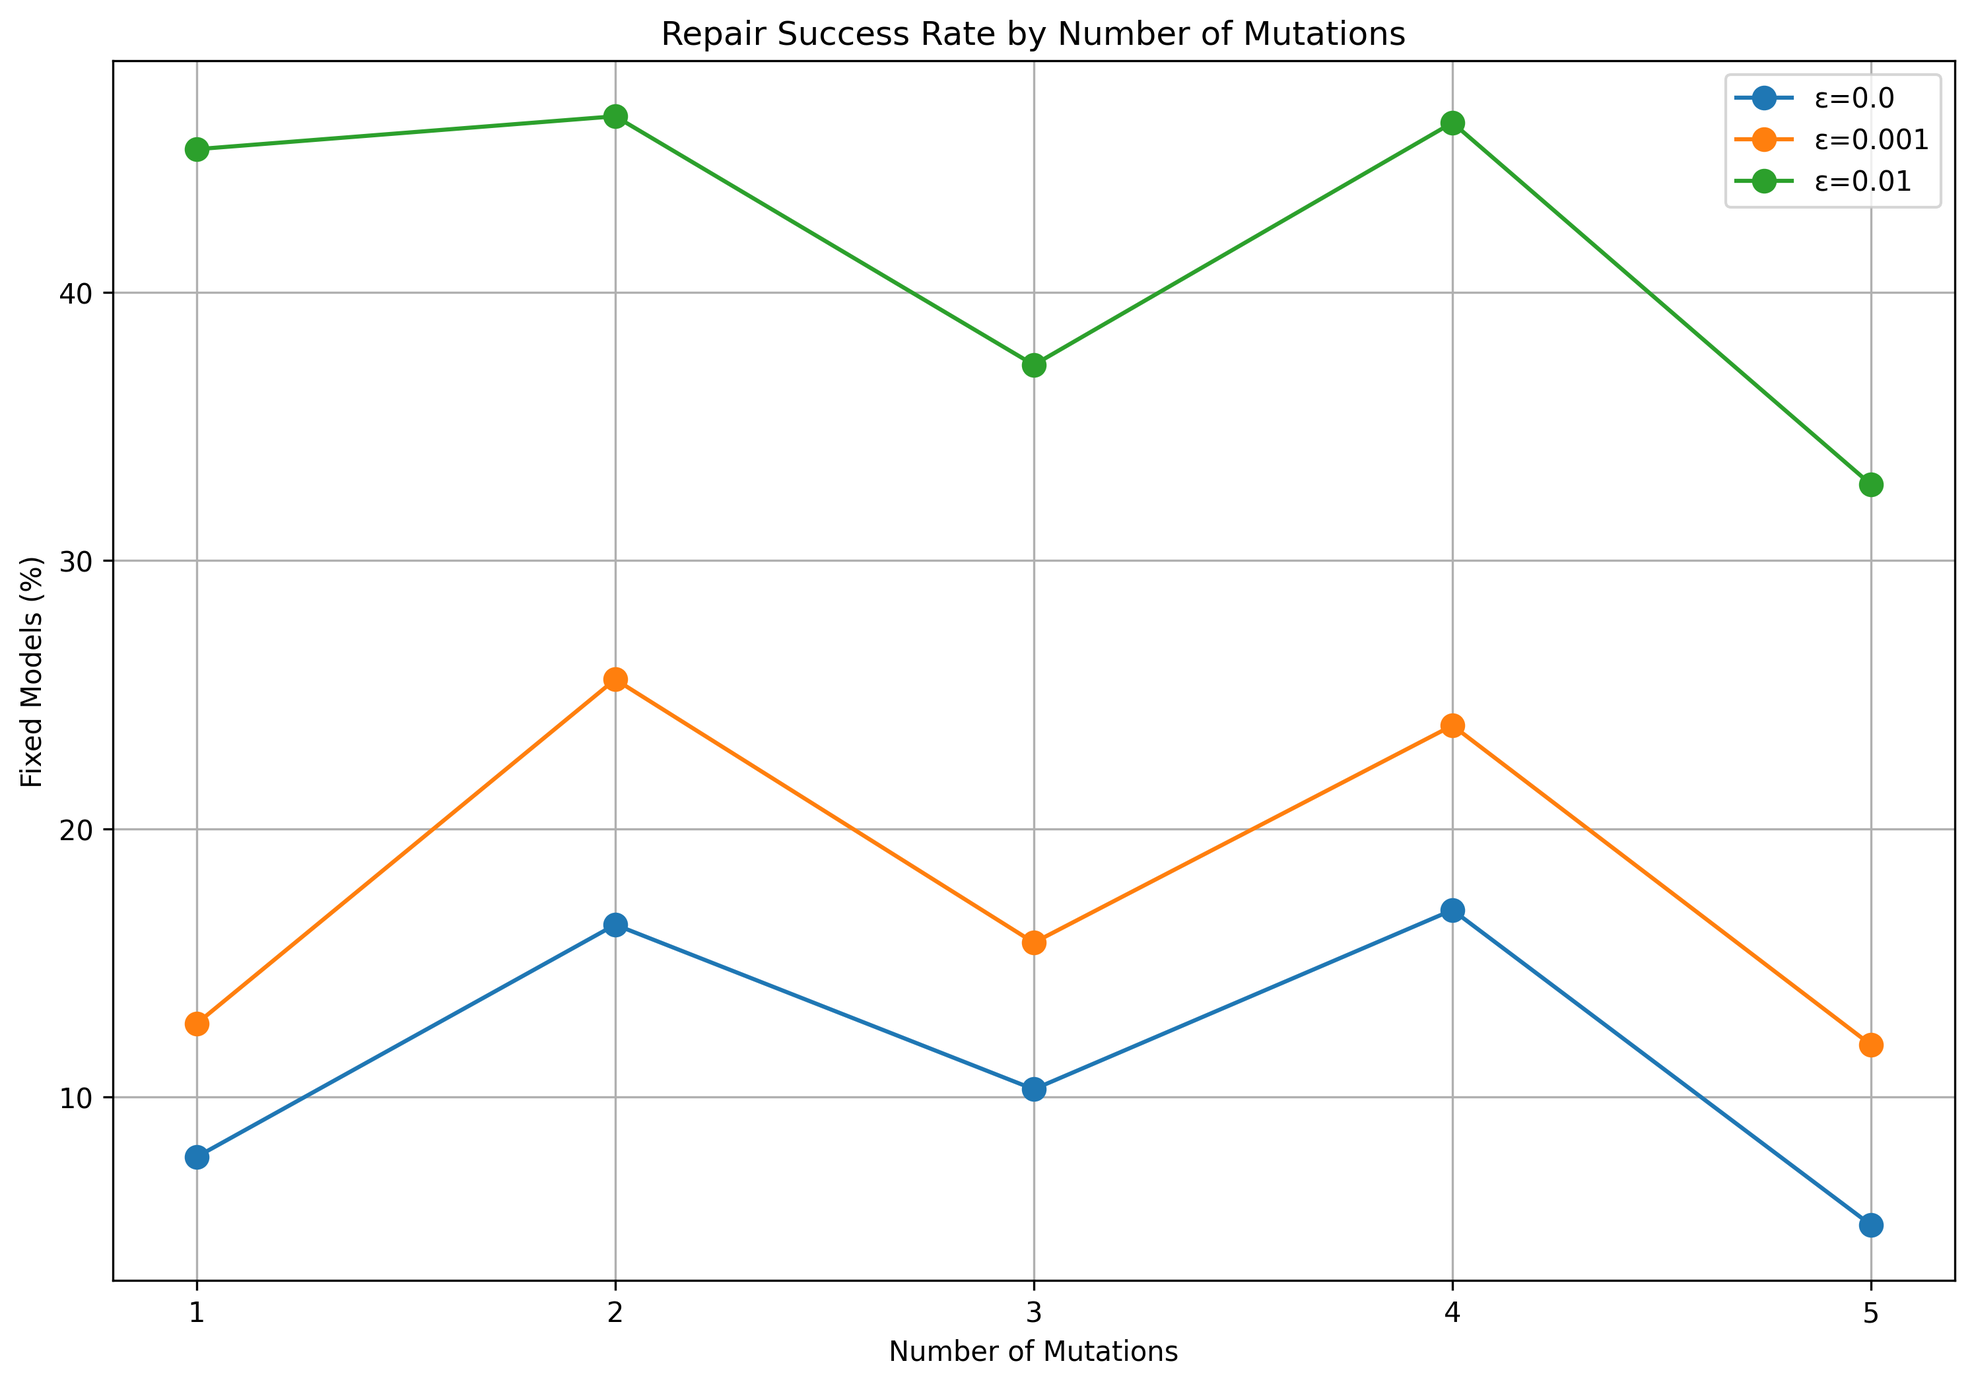
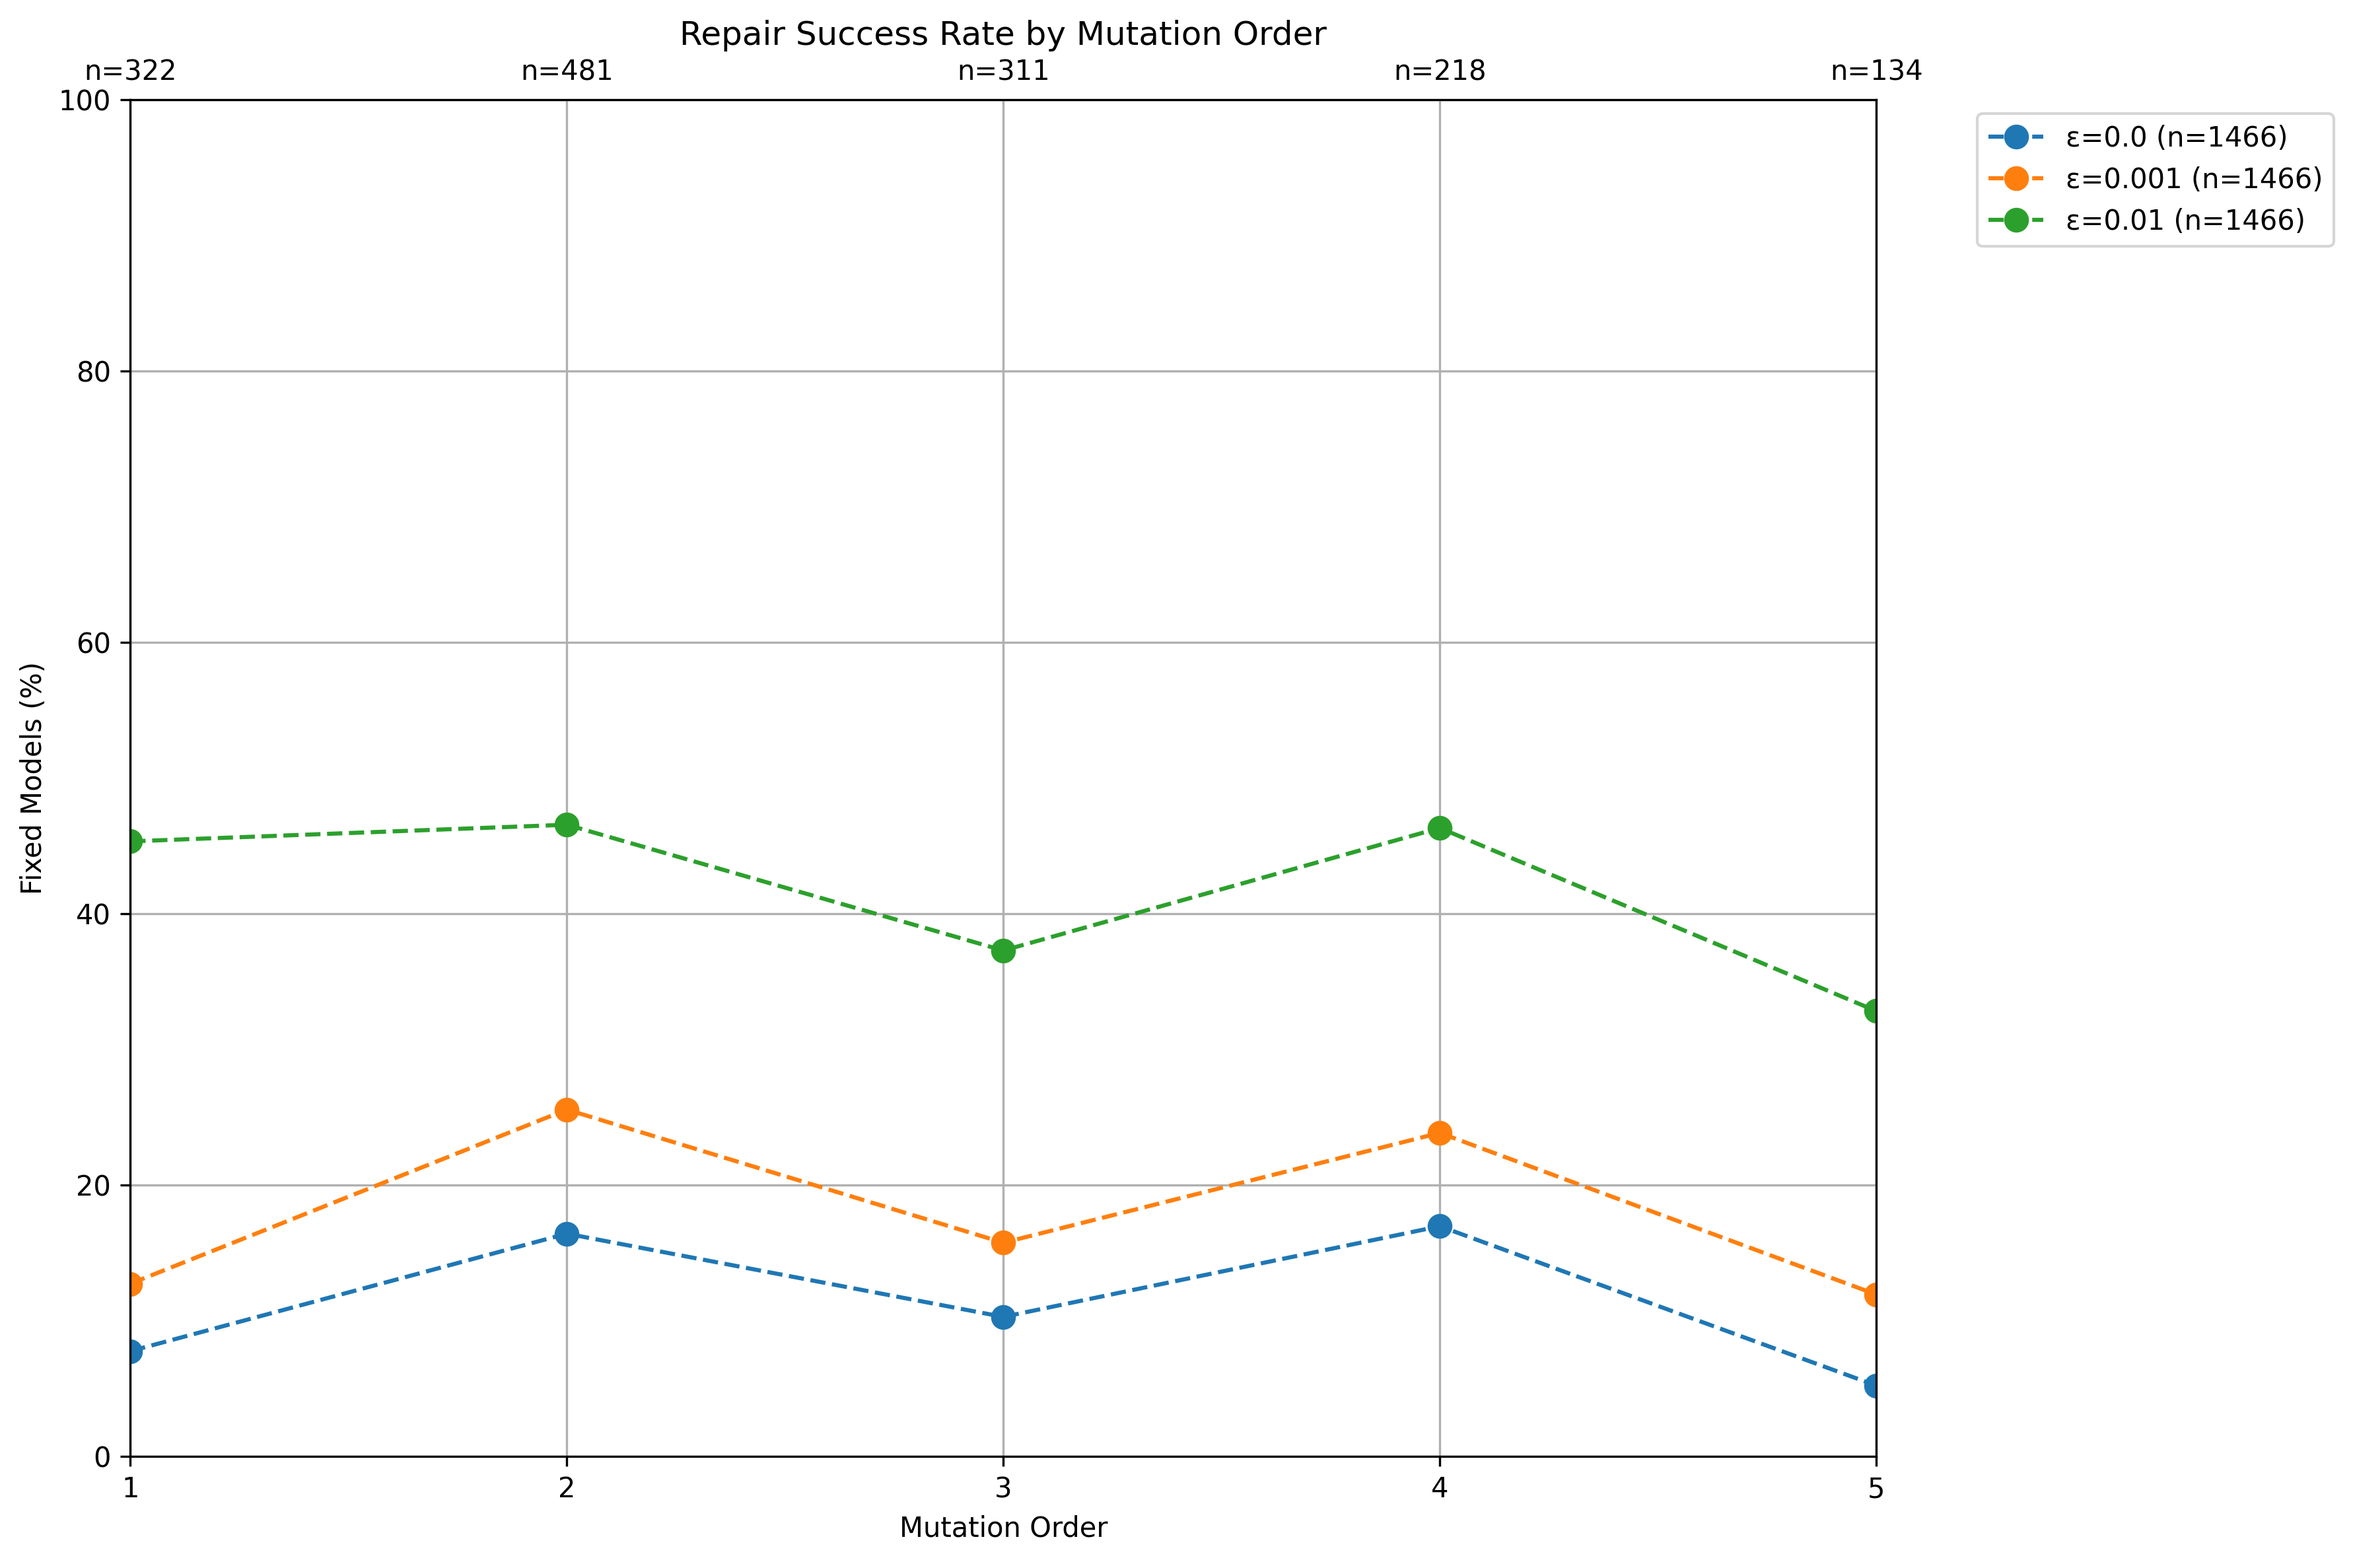
update visualization

diff --git a/experiments/train_mutations/analyze_test_results.py b/experiments/train_mutations/analyze_test_results.py
@@ -173,22 +173,127 @@ def plot_repair_progression(results, epsilons, output_file=None):
     plt.figure(figsize=(12, 8))
     for epsilon in epsilons:
         plt.plot(orders, fix_rates[epsilon], 
-                label=f'ε={epsilon}',
+                label=f'ε={epsilon} (n={len(sorted_results)})',
                 marker='o',
-                markersize=8)
+                markersize=8,
+                linestyle='--')
 
-    plt.xlabel("Number of Mutations")
+    plt.xlabel("Mutation Order")
     plt.ylabel("Fixed Models (%)")
-    plt.title("Repair Success Rate by Number of Mutations")
-    plt.legend()
+    # Add padding to title
+    plt.title("Repair Success Rate by Mutation Order", pad=20)
+    plt.legend(bbox_to_anchor=(1.05, 1), loc='upper left')
     plt.grid(True)
+    
+    # Set fixed axis limits
+    plt.xlim(1, max(orders))
+    plt.ylim(0, 100)
     plt.xticks(orders)
+
+    # Add total number of models for each order above the plot
+    for order in orders:
+        total = len(order_groups[order])
+        plt.annotate(f'n={total}', 
+                    xy=(order, 100),
+                    xytext=(0, 5),  # 5 points vertical offset
+                    textcoords='offset points',
+                    ha='center',
+                    va='bottom')
+
+    # Adjust layout to accommodate legend and annotations
+    plt.tight_layout()
 
     # Save the plot if an output file is specified
     if output_file:
         plt.savefig(output_file, dpi=300, bbox_inches="tight")
         print(f"Plot saved to {output_file}")
 
+    return plt
+
+
+def plot_repair_progression_per_program(results, epsilons, output_file=None):
+    """Plot the repair progression over time for different epsilon thresholds, separated by program"""
+    # Get mutation orders and group results by program
+    mutation_orders = load_mutation_orders()
+    programs = {}
+    
+    for result in results:
+        if result["job_id"] in mutation_orders:
+            program = result["program_name"]
+            if program not in programs:
+                programs[program] = []
+            result["mutation_order"] = mutation_orders[result["job_id"]]
+            programs[program].append(result)
+    
+    # Create subplot grid based on number of programs
+    n_programs = len(programs)
+    n_cols = 2  # You can adjust this if needed
+    n_rows = (n_programs + n_cols - 1) // n_cols
+    
+    plt.figure(figsize=(15, 5 * n_rows))
+    
+    for idx, (program, program_results) in enumerate(programs.items(), 1):
+        # Sort results by mutation order
+        sorted_results = sorted(program_results, key=lambda x: x["mutation_order"])
+        
+        # Group results by mutation order
+        order_groups = {}
+        for result in sorted_results:
+            order = result["mutation_order"]
+            if order not in order_groups:
+                order_groups[order] = []
+            order_groups[order].append(result)
+        
+        # Calculate fix rates for each mutation order and epsilon
+        fix_rates = {epsilon: [] for epsilon in epsilons}
+        orders = sorted(order_groups.keys())
+        
+        for order in orders:
+            group = order_groups[order]
+            total = len(group)
+            for epsilon in epsilons:
+                fixed = sum(1 for r in group if r["test_accuracy"] >= (1.0 - epsilon))
+                fix_rates[epsilon].append((fixed / total) * 100 if total > 0 else 0)
+        
+        # Create subplot
+        plt.subplot(n_rows, n_cols, idx)
+        for epsilon in epsilons:
+            plt.plot(orders, fix_rates[epsilon], 
+                    label=f'ε={epsilon} (n={len(sorted_results)})',
+                    marker='o',
+                    markersize=8,
+                    linestyle='--')
+        
+        plt.xlabel("Mutation Order")
+        plt.ylabel("Fixed Models (%)")
+        # Add padding to title
+        plt.title(f"Repair Success Rate - {program}", pad=20)
+        plt.legend(bbox_to_anchor=(1.05, 1), loc='upper left')
+        plt.grid(True)
+        
+        # Set fixed axis limits
+        plt.xlim(1, max(orders))
+        plt.ylim(0, 100)
+        plt.xticks(orders)
+
+        # Add total number of models for each order above the plot
+        for order in orders:
+            total = len(order_groups[order])
+            plt.annotate(f'n={total}', 
+                        xy=(order, 100),
+                        xytext=(0, 5),  # 5 points vertical offset
+                        textcoords='offset points',
+                        ha='center',
+                        va='bottom')
+    
+    # Adjust layout to accommodate legends and annotations
+    plt.tight_layout()
+    
+    # Save the plot if an output file is specified
+    if output_file:
+        plt.savefig(output_file, dpi=300, bbox_inches="tight")
+        print(f"Plot saved to {output_file}")
+    
     return plt
 
 
@@ -240,6 +345,11 @@ def main(saved_data_dir, output_dir, epsilons):
     # Plot repair progression
     print("Plotting repair progression...")
     progression_plot = plot_repair_progression(results, epsilon_values, output_path / "repair_progression.png")
+    plt.close()
+
+    # Plot repair progression per program
+    print("Plotting repair progression per program...")
+    progression_per_program_plot = plot_repair_progression_per_program(results, epsilon_values, output_path / "repair_progression_per_program.png")
     plt.close()
 
     # Generate summary table
